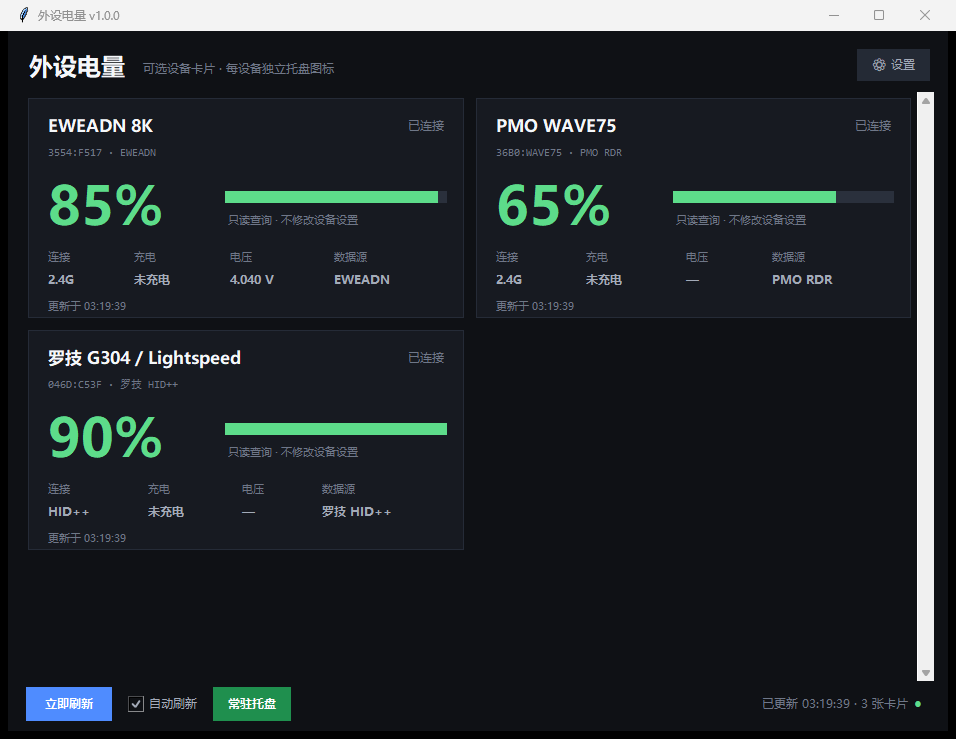
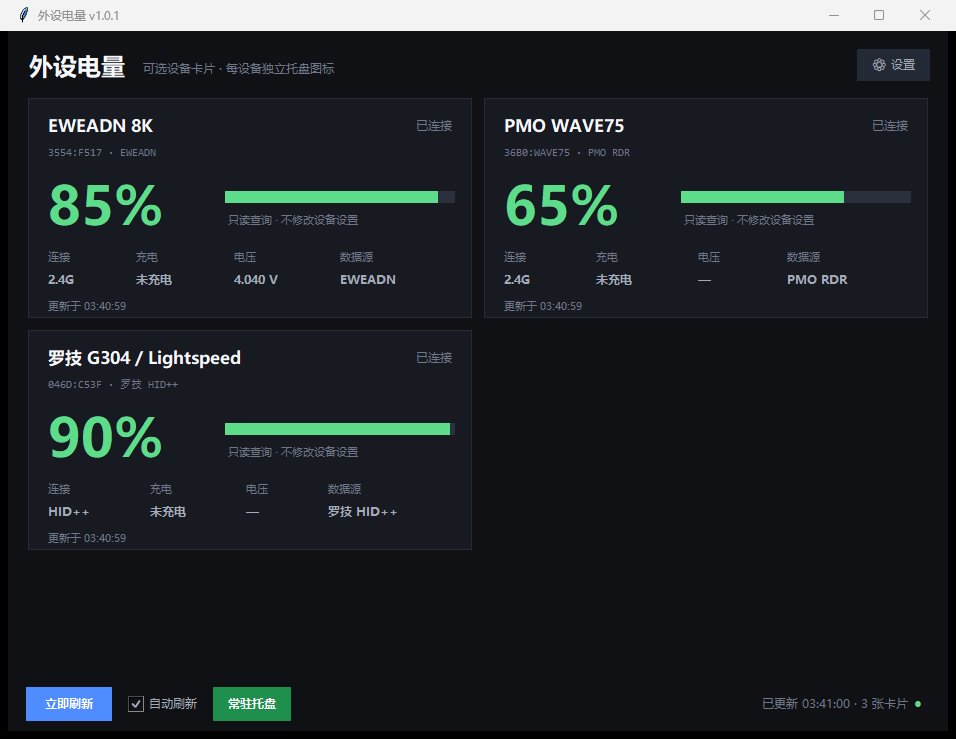
v1.0.1：滚动条仅在内容超出时显示

diff --git a/battery_panel.py b/battery_panel.py
@@ -231,11 +231,16 @@ class BatteryPanel(tk.Tk):
 
         wrap = tk.Frame(self, bg=BG)
         wrap.pack(fill="both", expand=True, padx=14, pady=(4, 0))
+        wrap.grid_rowconfigure(0, weight=1)
+        wrap.grid_columnconfigure(0, weight=1)
         self.canvas = tk.Canvas(wrap, bg=BG, highlightthickness=0)
-        scroll = ttk.Scrollbar(wrap, orient="vertical", command=self.canvas.yview)
-        self.canvas.configure(yscrollcommand=scroll.set)
-        self.canvas.pack(side="left", fill="both", expand=True)
-        scroll.pack(side="right", fill="y")
+        self.scroll = ttk.Scrollbar(wrap, orient="vertical",
+                                    command=self.canvas.yview)
+        self.canvas.configure(yscrollcommand=self.scroll.set)
+        self.canvas.grid(row=0, column=0, sticky="nsew")
+        self._scroll_visible = False
+        self.scroll.grid(row=0, column=1, sticky="ns")
+        self.scroll.grid_remove()
 
         self.inner = tk.Frame(self.canvas, bg=BG)
         self.inner_id = self.canvas.create_window((0, 0), window=self.inner,
@@ -283,12 +288,35 @@ class BatteryPanel(tk.Tk):
 
     def _on_inner_configure(self, _event=None):
         self.canvas.configure(scrollregion=self.canvas.bbox("all"))
+        self._update_scrollbar_visibility()
 
     def _on_canvas_configure(self, event):
         self.canvas.itemconfigure(self.inner_id, width=event.width)
+        self._update_scrollbar_visibility()
+
+    def _update_scrollbar_visibility(self):
+        """滚动条只在内容高度超过可视区域时出现。"""
+        try:
+            if not self.winfo_exists():
+                return
+            bbox = self.canvas.bbox("all")
+            view_h = self.canvas.winfo_height()
+            content_h = (bbox[3] - bbox[1]) if bbox else 0
+            need = content_h > view_h + 1
+            if need == self._scroll_visible:
+                return
+            self._scroll_visible = need
+            if need:
+                self.scroll.grid()
+            else:
+                self.scroll.grid_remove()
+                self.canvas.yview_moveto(0)
+        except tk.TclError:
+            pass
 
     def _on_wheel(self, event):
-        self.canvas.yview_scroll(int(-event.delta / 120), "units")
+        if self._scroll_visible:
+            self.canvas.yview_scroll(int(-event.delta / 120), "units")
 
     # ------------------------------------------------------------- 刷新
     def refresh(self):
@@ -396,6 +424,7 @@ class BatteryPanel(tk.Tk):
             self.empty_label.grid(row=0, column=0, columnspan=2, pady=80)
         self.inner.update_idletasks()
         self.canvas.configure(scrollregion=self.canvas.bbox("all"))
+        self._update_scrollbar_visibility()
 
     def _schedule_next(self):
         if self._after_id is not None:

diff --git a/version.py b/version.py
@@ -1,7 +1,7 @@
 # -*- coding: utf-8 -*-
 """version.py —— 单一版本号来源。"""
 
-__version__ = "1.0.0"
-VERSION_TUPLE = (1, 0, 0, 0)
+__version__ = "1.0.1"
+VERSION_TUPLE = (1, 0, 1, 0)
 APP_DISPLAY_NAME = "Wireless HID Toolbox"
 BUILD_DATE = "2026-11-25"

diff --git a/CHANGELOG.md b/CHANGELOG.md
@@ -1,5 +1,11 @@
 # 更新记录
 
+## 1.0.1 — 2026-11-25
+
+- 主界面右侧滚动条改为内容超出时才显示，内容不足时卡片占满宽度
+- 修复托盘退出后右下角状态停留在“正在退出托盘”
+- 所有窗口应用标题栏关闭设置；无托盘时关闭最后窗口视为完全退出
+
 ## 1.0.0 — 2026-11-25
 
 首个公开版本，整合此前所有功能更新。

diff --git a/README.md b/README.md
@@ -1,6 +1,6 @@
 # Wireless HID Toolbox（2.4G 外设工具箱）
 
-当前版本：**v1.0.0**（更新记录见 [CHANGELOG.md](CHANGELOG.md)）
+当前版本：**v1.0.1**（更新记录见 [CHANGELOG.md](CHANGELOG.md)）
 
 Windows 10/11 的 2.4G 无线外设电量与 HID 调试工具箱。纯 Python 标准库 +
 `ctypes` + `tkinter`，运行时不依赖任何第三方库。
